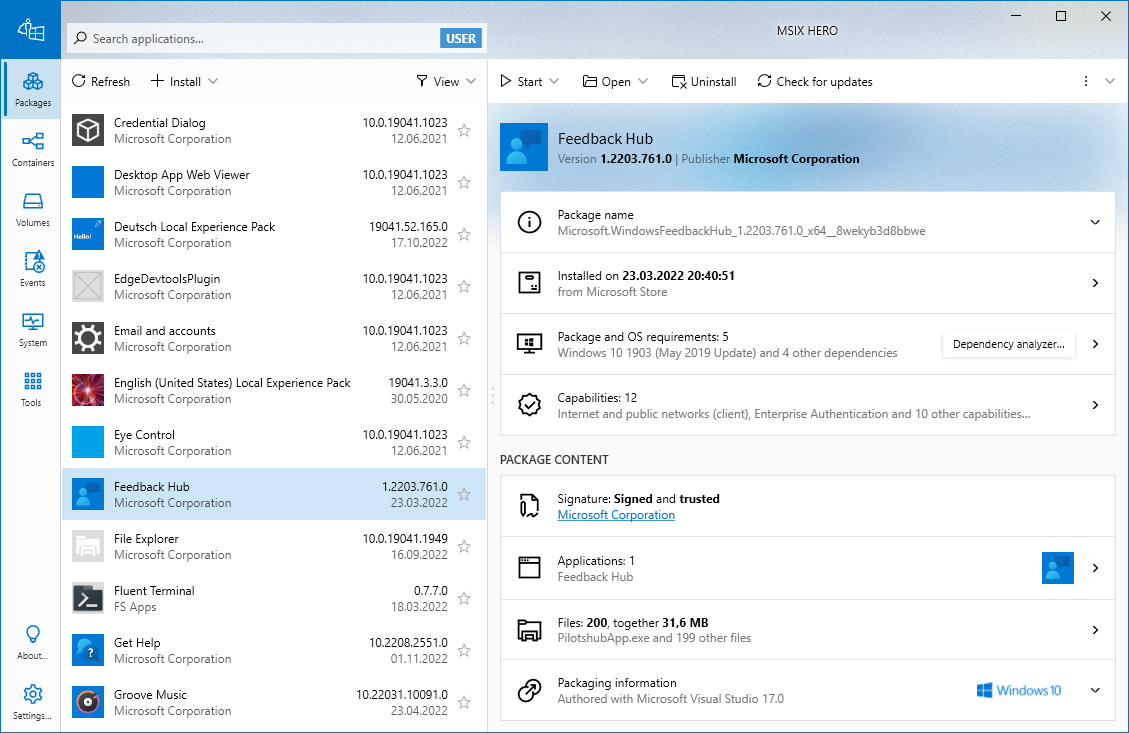
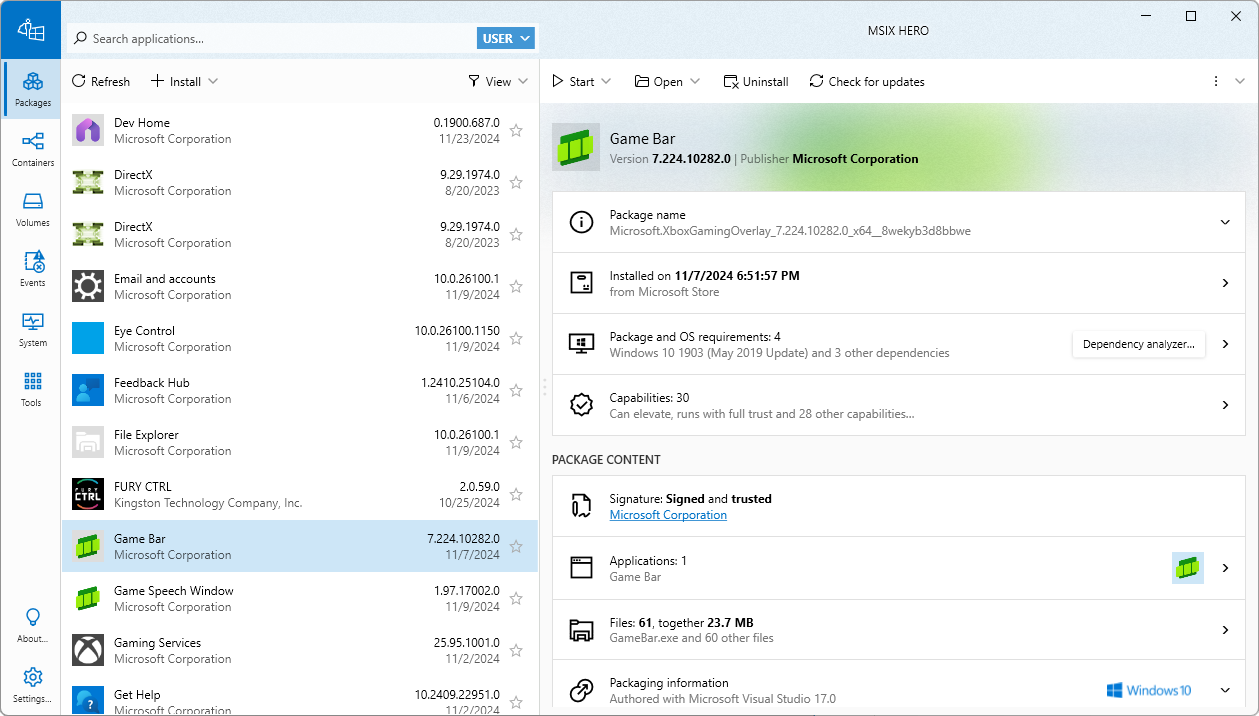
Update readme.md MSIX Hero v3.1

diff --git a/README.md b/README.md
@@ -1,35 +1,35 @@
 ## About
 
-MSIX Hero is an open source MSIX manager and toolkit. The list of features is available here: https://msixhero.net/features/
+MSIX Hero is an open source MSIX manager and toolkit. The feature list is available here: https://msixhero.net/features/
 
-![MSIX Hero - screenshot](https://github.com/marcinotorowski/MSIX-Hero/blob/develop/screenshot.png?raw=true)
+![MSIX Hero - Screenshot](https://github.com/marcinotorowski/MSIX-Hero/blob/develop/screenshot.png?raw=true)
 
-Bug reports, feature improvements and pull requests are welcome.
+Bug reports, feature requests and pull requests are welcome.
 
-## Prerequisites
-* .NET 7.0
-* Windows 10 1809 or newer / Windows 11
+## Requirements
+* .NET 8.0
+* Windows 10 1809 or later / Windows 11
 
 ## Official binaries ###
-You can download official binaries (signed + deployable via MSIX/appinstaller) from the official website: https://msixhero.net/get
+You can download official binaries (signed + deployable via MSIX) from the official website: https://msixhero.net/get
 
-## Building
-### Prerequisites
+## Build
+## Requirements
 * Visual Studio 2022
-* .NET 7
+* .NET 8
 * Windows SDK 10.0.22621.0
 
-### How to build
-The build process is straightforward. You can simply open `Otor.MsixHero.sln`, restore nuget packages and run the project. Alternatively, use the provided build script `build.ps1` to start the build. This starts a cake script that restores Nuget packages, builds all necessary projects, performs a clean-up and copies results to the `/out` subfolder. For each assembly, the build script takes the major and minor version from the last tag (pattern vMAJOR.MINOR) and the third unit comes from number of commits since that tag (starting with 0).
+### How to Build
+The build process is simple. You can simply open `Otor.MsixHero.sln`, restore the nuget packages and run the project. Alternatively, you can use the included build script `build.ps1` to start the build. This starts a cake script that restores nuget packages, builds all necessary projects, performs a cleanup and copies the results to the `/out` subdirectory. For each assembly, the build script takes the major and minor version from the last tag (pattern `vMAJOR.MINOR`) and the third unit comes from the number of commits since that tag (starting with 0).
 
-**Note:** The official binaries and MSIX setup available on http://msixhero.net are additionally signed. AppVeyor CI is not signing them, but you can use another script `build-and-sign.ps1` to build and sign. Adjust the signature detail first, as the defaults values are not meant to work out-of-the-box, you can also use the parameter --CertName for this to work, in this case the command to build may look like this:
+**Note:** The official binaries and MSIX setup available at http://msixhero.net are additionally signed. AppVeyor CI does not sign them, but you can use another script `build-and-sign.ps1` to build and sign them. Adjust the signature details first, as the defaults are not meant to work out of the box, you can also use the --CertName parameter to make it work, in this case the command to build may look like this
 
     dotnet cake build.cake --ScriptArgs -CertName="ABC"
 
-## Build status ##
-Branches *develop* and *master* and pull requests are built automatically using Appveyor CI.
+## Build Status ##
+Branches *develop* and *master* and pull requests are automatically built using Appveyor CI.
 
-[![Build status](https://ci.appveyor.com/api/projects/status/ukp54g7jnwa3g177?svg=true)](https://ci.appveyor.com/project/marcinotorowski/msix-hero-bj0mu)
+[![Build Status](https://ci.appveyor.com/api/projects/status/ukp54g7jnwa3g177?svg=true)](https://ci.appveyor.com/project/marcinotorowski/msix-hero-bj0mu)
 
 ## License ##
 * GNU General Public License v3
